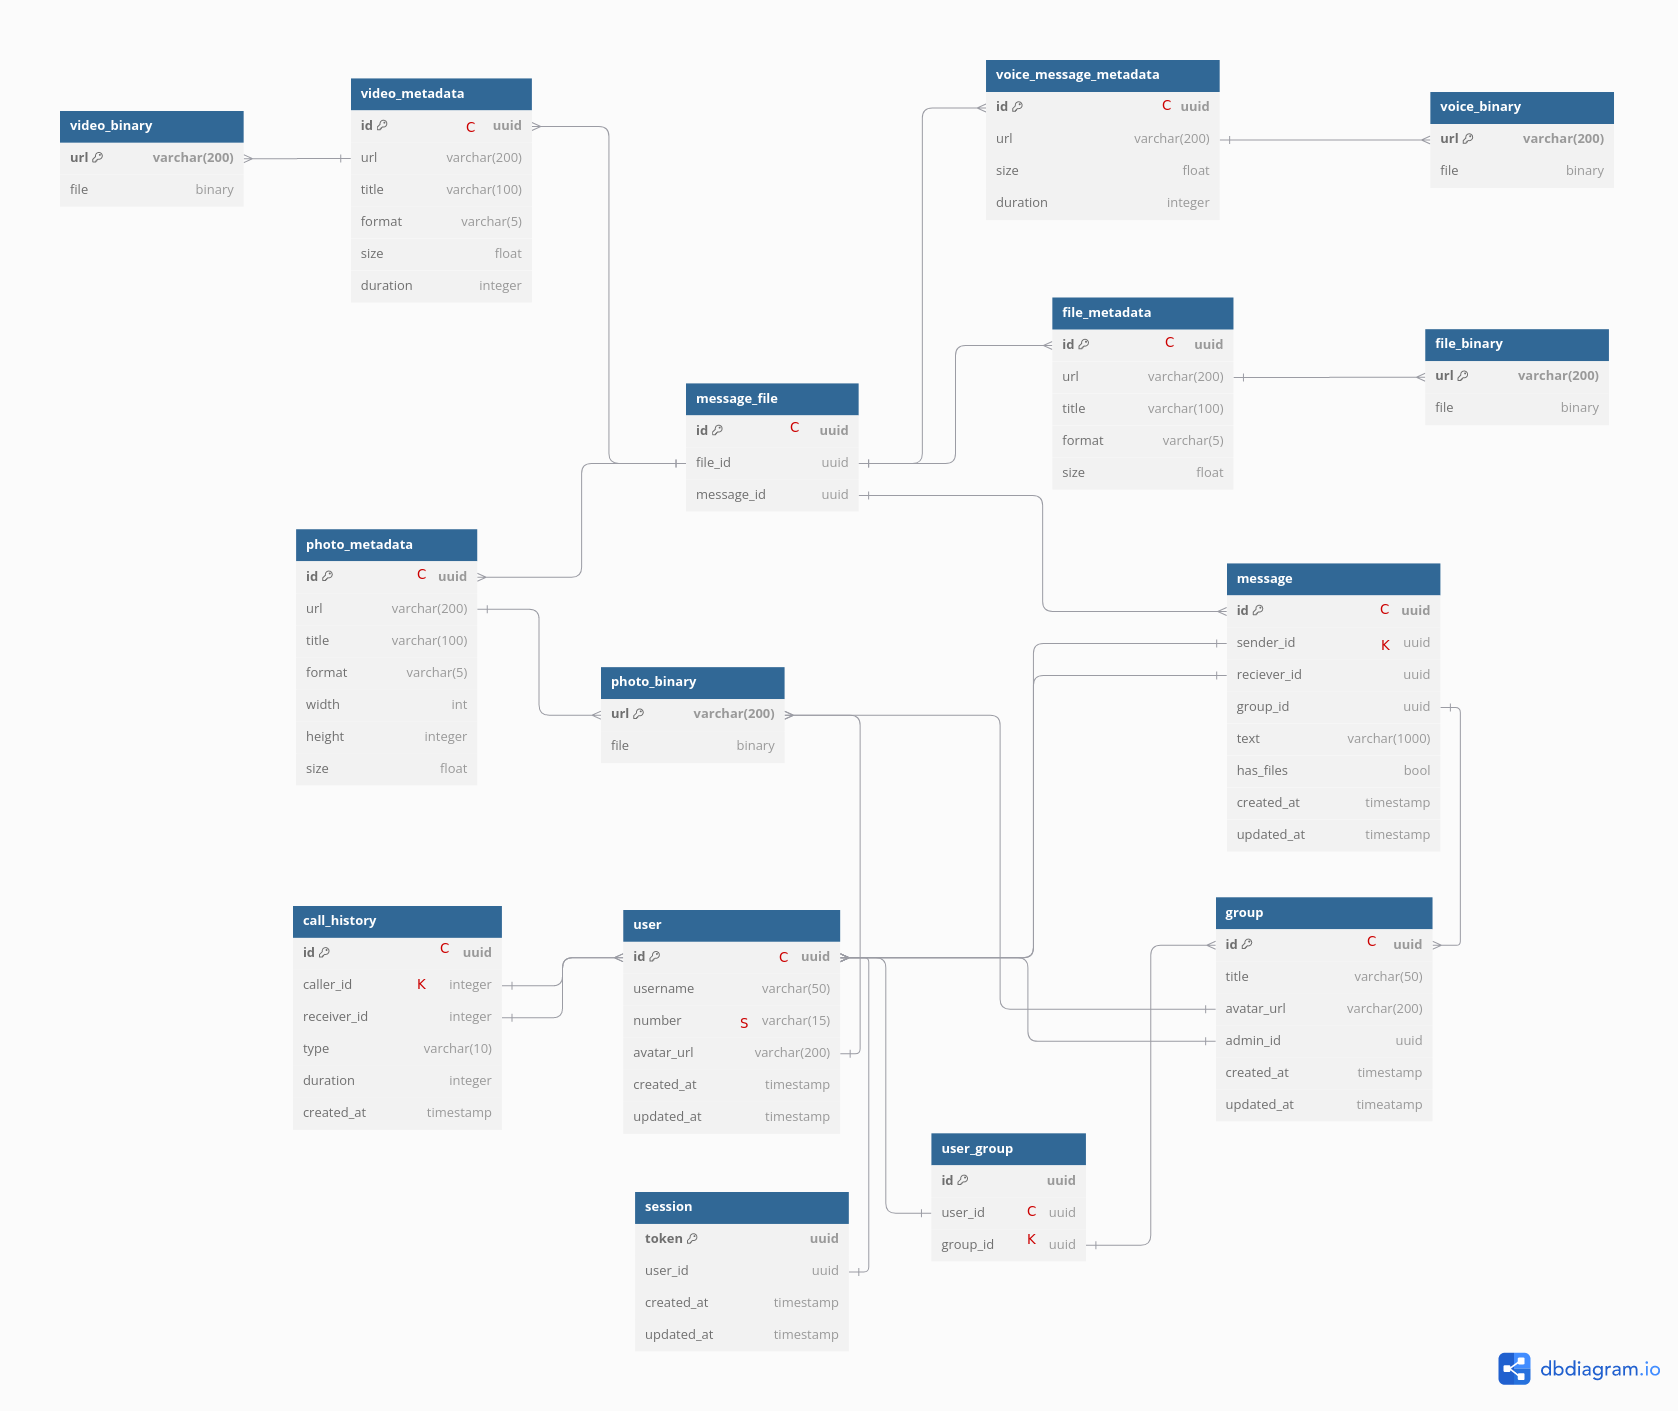
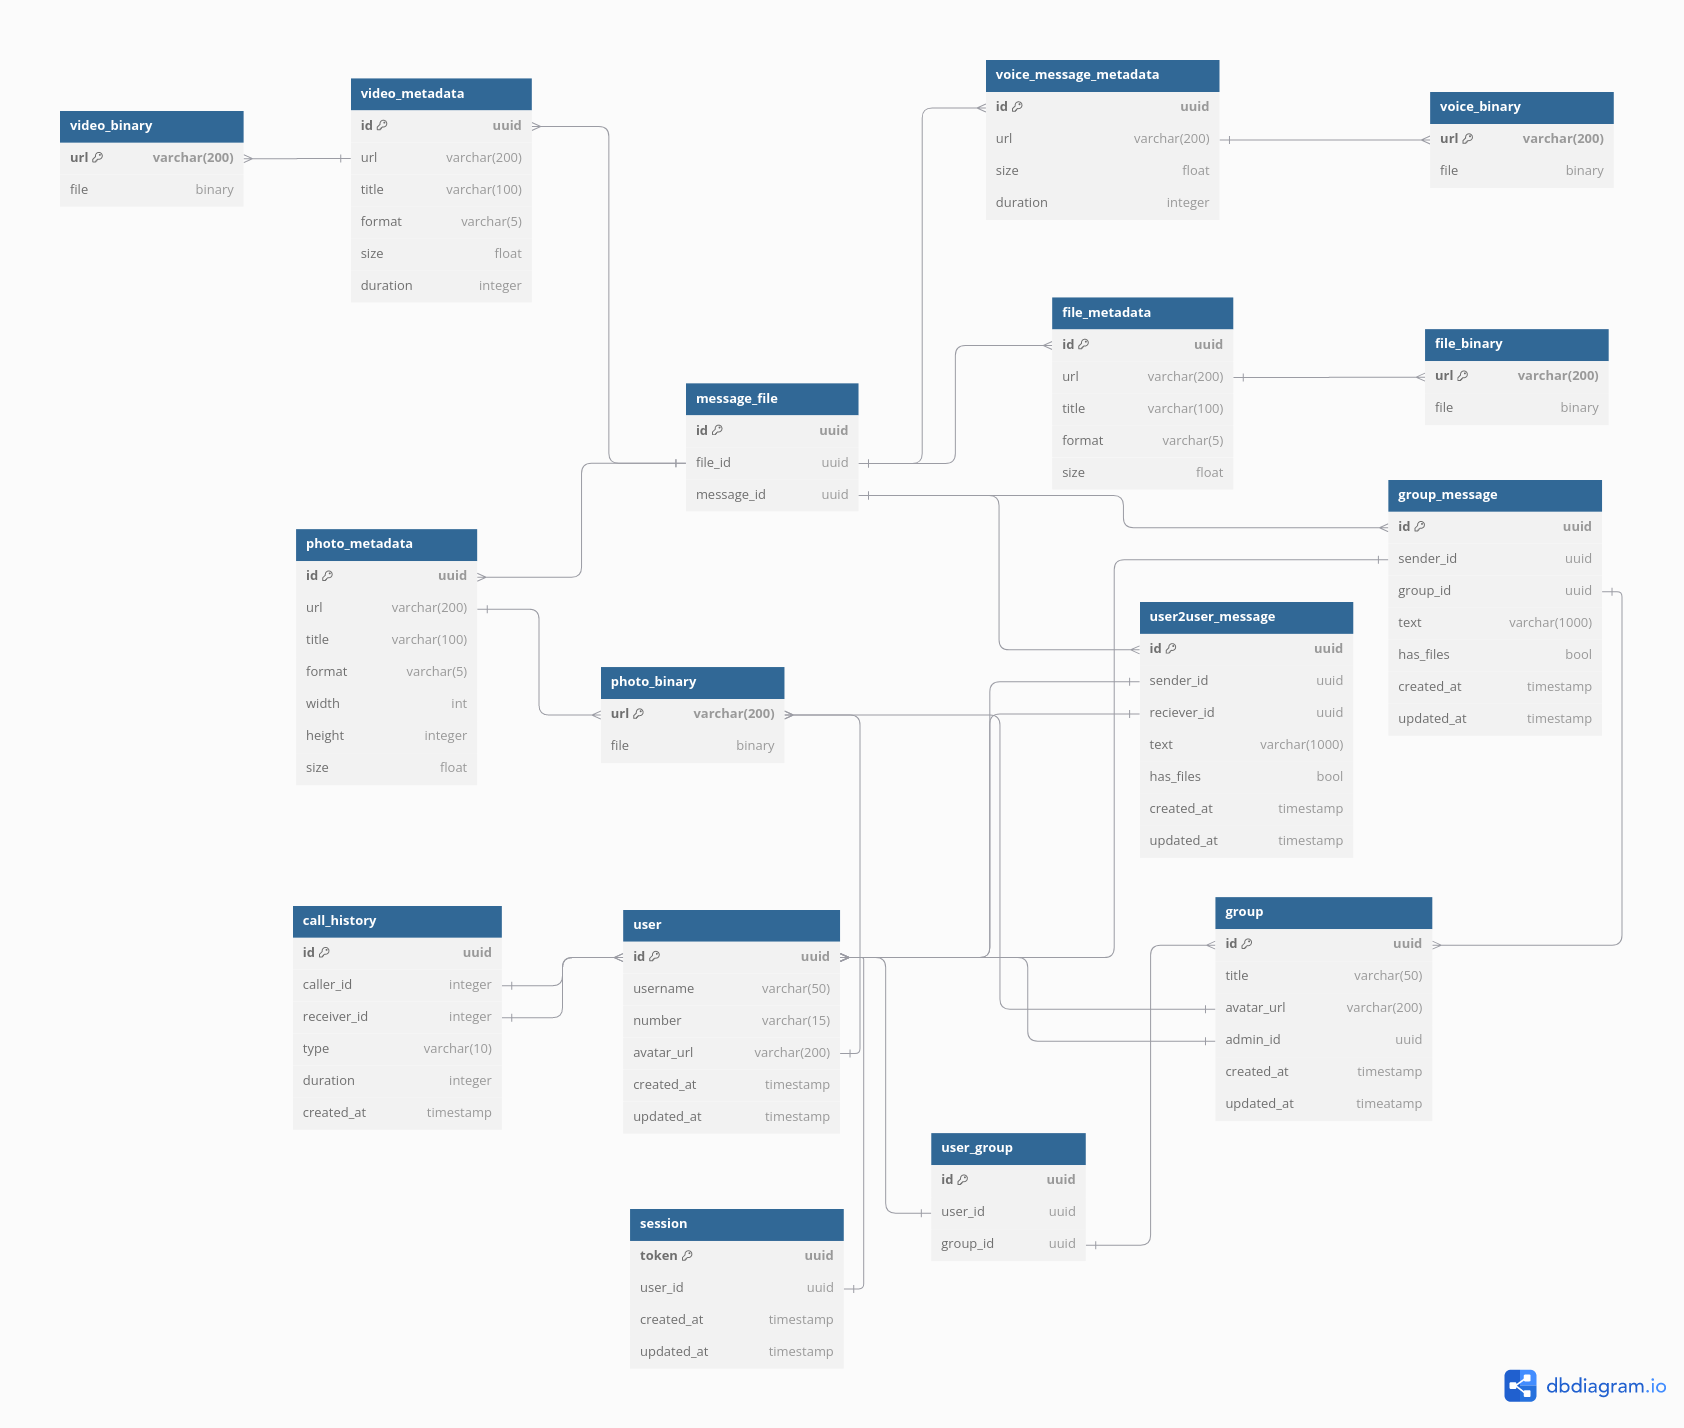
some fix for database

diff --git a/README.md b/README.md
@@ -569,26 +569,42 @@ Clustering key (бывает двух видов, в зависимости от
 Индексы в Cassandra также не совсем стандартные Storage-attached index (обознач. S) - он хранится 
 совместно с данными, использует смещения для определения положения нужных данных
 
+В качестве БД для сообщений и метаданных для файлов была выбрана Kafka, так как данный брокер способен выдеживать 
+большую нагрузку, кроме того, она позволит не реализовывать удаление сущностей на сервере. 
+Также было принято решение денормализовать таблицу message и разбить ее на две таблицы
+- user2user_message
+- group_message
+
+Первая таблица отвечает за сообщения от пользователя к пользователю. Вторая отвечает за сообщения, отправленные в рамках
+группы. В первой таблице ключ шардирования - sender, во второй - ключ шардирования group_id. Также установим автоматическое 
+удаление данных, настроив retention.ms = 30 дней (30 * 24 * 60 * 60 * 1000 = 2592000000мс). В случае таблицы user2user_message
+сообщение и все связанные с ним метаданные и файлы удаляются после прочтения(так как кафка доставила их до пользователя).
+В случае группы - после того, как данное сообщение будет прочитано всеми пользователями группы. 
+
+Кроме того выбор пал на данную базу данных, так как она подходит для временного хранения потоковых данных, что необходимо
+именно в данном случае.
+
 
 В качестве S3 хранилища был выбран Amazon S3 Express One Zone, так как он поддерживает высокие рпс(порядка миллионов), а также 
 имеет приемлемую задержку(10мс). Кроме того, из-под капота поддерживает автоматическое масштабирование, что не мало важно.
 Кроме того данное хранилище часто используется для мессенджеров.
 
-Приведу таблицу, где распишу, какая Бд используется для таблицы, а также PK и индекс, если необходимо
+Приведу таблицу, где распишу, какая БД используется для таблицы, а также PK и индекс, если необходимо
 
 |        Таблица         |             БД             |           PK            |   Index   |
 |:----------------------:|:--------------------------:|:-----------------------:|:---------:|
-|        message         |         Cassandra          |   K(sender_id), C(id)   |     -     |   
+|   user2user_message    |           Kafka            |           id            |     -     |   
+|     group_message      |           Kafka            |           id            |     -     |   
 |          user          |         Cassandra          |          C(id)          | S(number) |
 |         group          |         Cassandra          |          C(id)          |     -     |
 |      call_history      |         Cassandra          |   K(caller_id), C(id)   |     -     |
 |        session         |           Redis            |          token          |     -     |        
 |       user_group       |         Cassandra          | K(group_id), C(user_id) |     -     |     
-|      message_file      |         Cassandra          |          C(id)          |     -     |   
-|     video-metadata     |         Cassandra          |          C(id)          |     -     |
-|     photo-metadata     |         Cassandra          |          C(id)          |     -     |
-|     file-metadata      |         Cassandra          |          C(id)          |     -     |
-| voice-message-metadata |         Cassandra          |          C(id)          |     -     |
+|      message_file      |           Kafka            |           id            |     -     |   
+|     video-metadata     |           Kafka            |           id            |     -     |
+|     photo-metadata     |           Kafka            |           id            |     -     |
+|     file-metadata      |           Kafka            |           id            |     -     |
+| voice-message-metadata |           Kafka            |           id            |     -     |
 |      videо-binary      | Amazon S3 Express One Zone |           url           |     -     |
 |      photo-binary      | Amazon S3 Express One Zone |           url           |     -     |
 |      file-binary       | Amazon S3 Express One Zone |           url           |     -     |
@@ -679,17 +695,6 @@ IP и порт на TURN-сервере (например, relay.example.com:193
 - Relayed - Relayed (через TURN-сервер, если все остальное не работает)
 4) Установка соединения - при нахождении первого рабочего пути ICE завершает перебор и медиа-данные начинают передаваться
 по выбранному каналу.
-
-- ***Алгоритм удаления сообщений после прочтения***
-1. Как только пользователь читает сообщение status_worker кладет в Kafka message_id
-2. Запрос в cassandra для определения url всех вложений для данного сообщения
-3. Запрос на удаление вложений из S3 хранилища всех вложений по полученным выше url
-4. Запрос на удаление соответствующих полей в cassandra
-
-- ***Алгоритм удаления сообщений после того, как они не были прочитаны месяц***
-1. В S3 можно настроить автоматическое удаление через 1 месяц, так и поступим
-2. Удалять из cassandra будем используя Cron. Например, каждую ночь в 1 ночи будет запускаться удаление всех "просроченных" 
-сообщений. (Cron-expression: 0 1 * * *)
 
 [1]: https://www.coolest-gadgets.com/whatsapp-statistics/
 [2]: https://learn.rasayel.io/en/blog/whatsapp-user-statistics/
